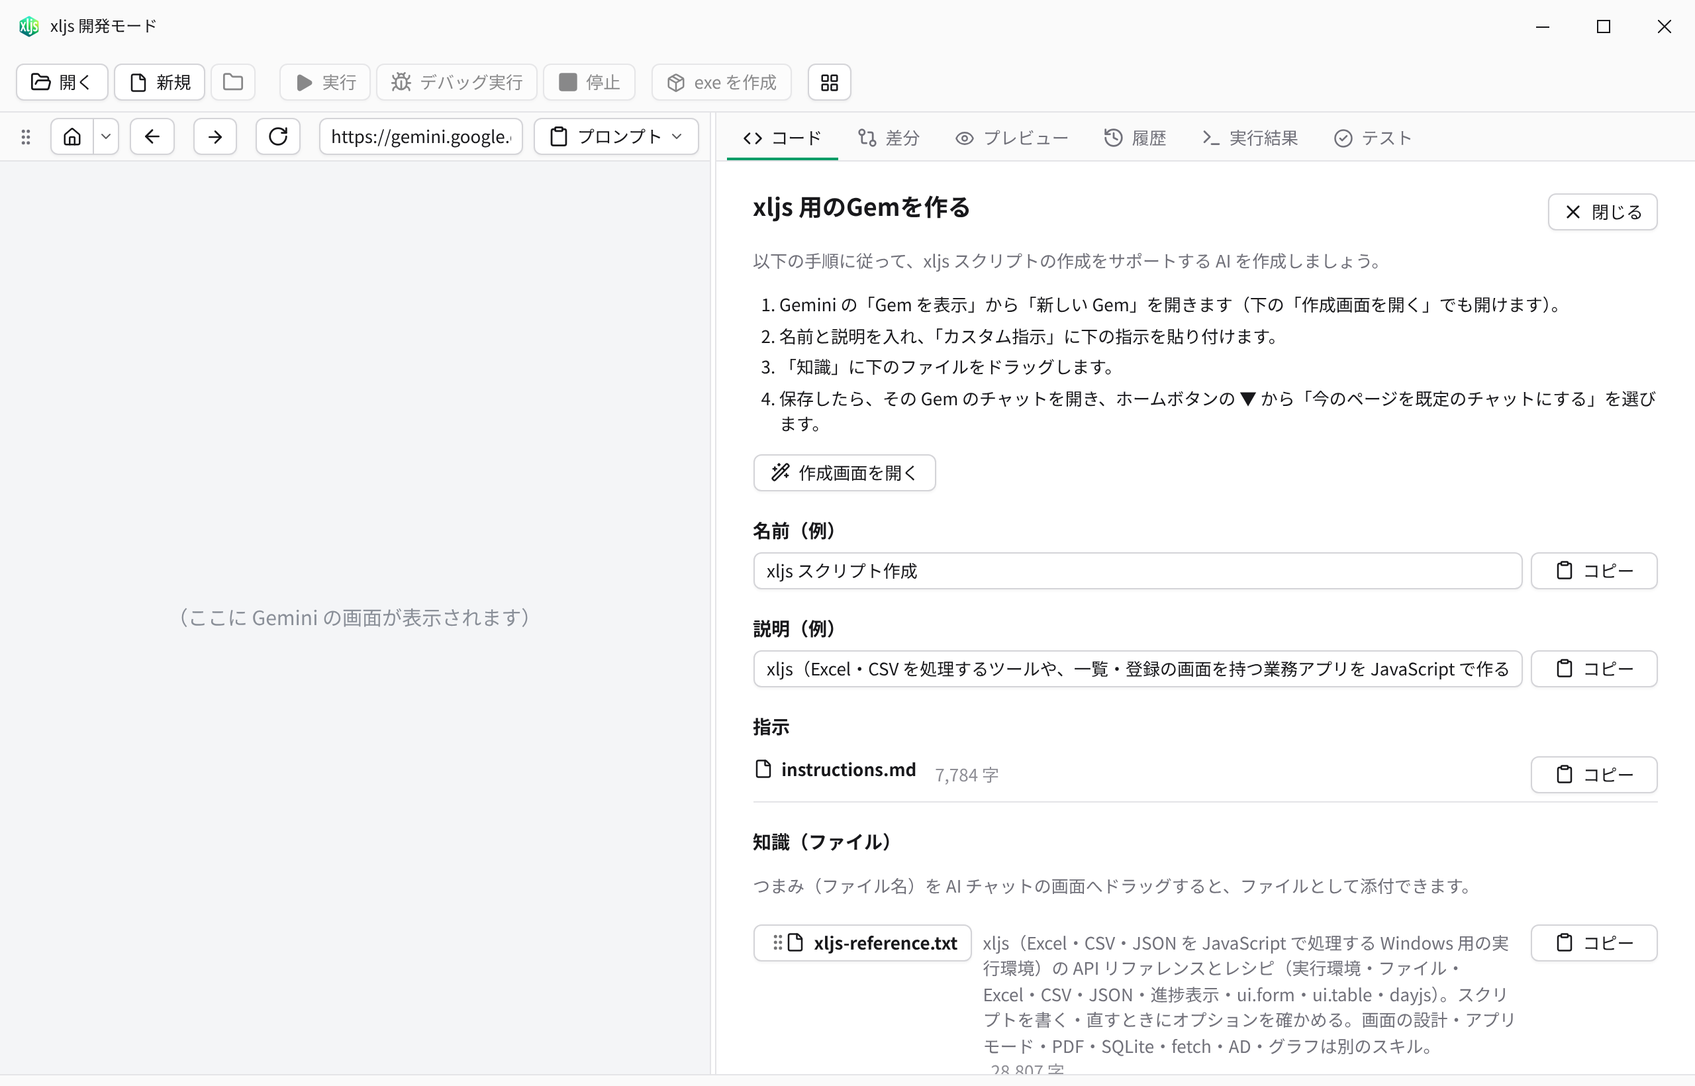
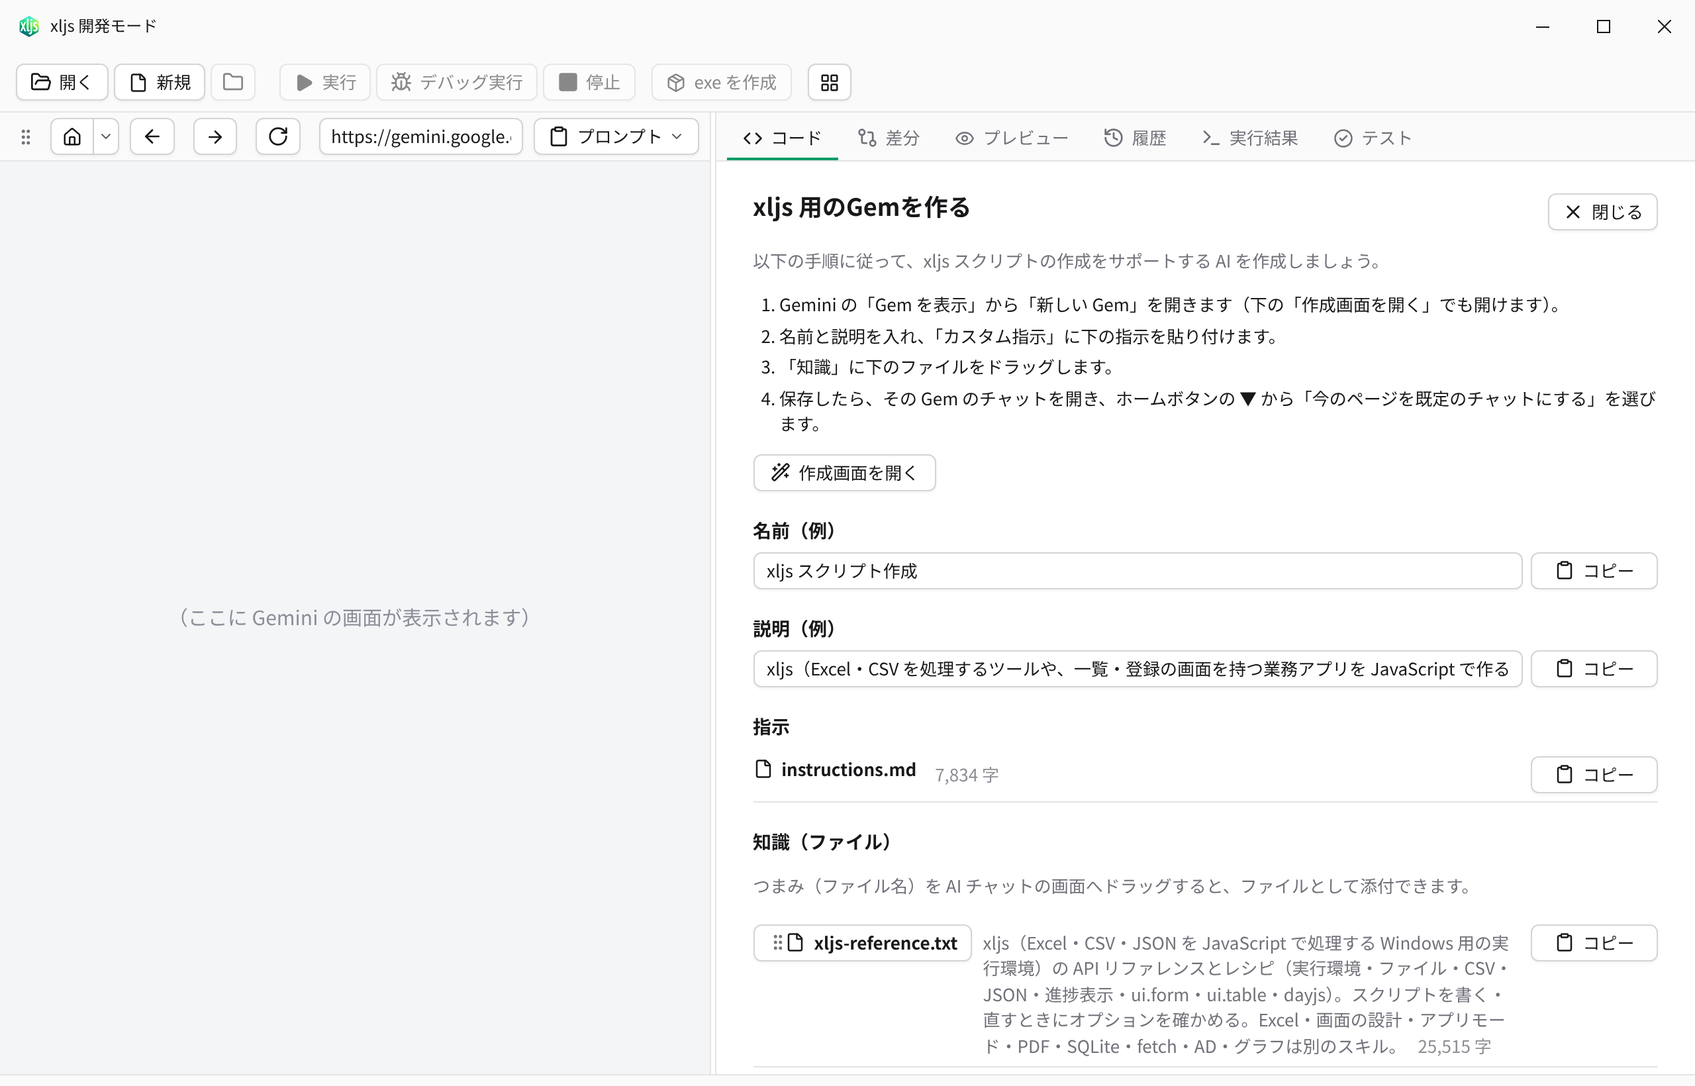
Give the Excel section of the AI reference a skill of its own (xljs-excel)
The Copilot reference skill was at its 30,000 character limit, which left
no room to describe the Excel API. The Excel section of
docs/ai/reference.md now goes to the skill xljs-excel (5,800 characters),
and xljs-reference is down to 26,000.

- The instructions of Copilot and of the chats with knowledge files name
  the new skill (xljs-excel / xljs-excel.txt); the dev mode's agent kit
  and the screenshot of it offer it after xljs-reference.
- With the room back, the Excel section says what the last change had to
  leave out (what find() takes, the conditions of pick, an example), and
  the code comments of reference.md get their alignment back.

Claude-Session: https://claude.ai/code/session_014LqK3eARnkqhrirkMCWxaY

Changed region(s): [[0.5625, 0.9018, 0.875, 0.9951]]

diff --git a/src/engine/tests.rs b/src/engine/tests.rs
@@ -572,7 +572,7 @@ fn form_icon() {
 /// The skills for Copilot agents (docs/ai/copilot/skills/xljs-*): the
 /// reference split by feature, each skill a handwritten header and some
 /// `## ` sections of reference.md.
-const REFERENCE_SKILLS: [&str; 6] = ["xljs-reference", "xljs-app-design", "xljs-pdf", "xljs-sqlite", "xljs-network", "xljs-chart"];
+const REFERENCE_SKILLS: [&str; 7] = ["xljs-reference", "xljs-excel", "xljs-app-design", "xljs-pdf", "xljs-sqlite", "xljs-network", "xljs-chart"];
 
 /// Splits markdown into the text before the first `## ` heading and the
 /// `## ` sections (heading, text), skipping code blocks.
@@ -666,7 +666,7 @@ const KNOWLEDGE_CHATS: [&str; 3] = ["chatgpt", "gemini", "claude"];
 fn knowledge_instructions(copilot: &str) -> String {
     let (first, rest) = copilot.split_once('\n').unwrap();
     assert!(first.starts_with("あなたは「xljs」"), "copilot/instructions.md: the first line changed; update knowledge_instructions");
-    let head = "あなたは「xljs」用のスクリプトを書くアシスタントです。以下の決まりに従って、利用者の業務のためのプログラム（Excel・CSV の集計や変換をするツールから、一覧・登録の画面を持つ業務アプリまで）を JavaScript で書いてください。詳しい API は知識のファイルにあります。画面のあるスクリプトを作る・直すときは、コードを書く前に `xljs-app-design.txt`（作るものの決め方、画面の設計の方針・型・アンチパターン、アプリモード）を必ず読んでください。API の詳細は `xljs-reference.txt`（PDF は `xljs-pdf.txt`、SQLite は `xljs-sqlite.txt`、fetch と Active Directory は `xljs-network.txt`、グラフは `xljs-chart.txt`）、Excel マクロ（VBA）の移植は `vba-port.txt` を必ず参照してください。知識のファイルの中で「スキル `xljs-pdf`」などとあるのは、同じ名前の知識のファイル（`xljs-pdf.txt`）のことです。";
+    let head = "あなたは「xljs」用のスクリプトを書くアシスタントです。以下の決まりに従って、利用者の業務のためのプログラム（Excel・CSV の集計や変換をするツールから、一覧・登録の画面を持つ業務アプリまで）を JavaScript で書いてください。画面のあるスクリプトを作る・直すときは、コードを書く前に `xljs-app-design.txt`（作るものの決め方、画面の設計の方針・型・アンチパターン、アプリモード）を必ず読んでください。API の詳細は `xljs-reference.txt`（Excel は `xljs-excel.txt`、PDF は `xljs-pdf.txt`、SQLite は `xljs-sqlite.txt`、fetch と Active Directory は `xljs-network.txt`、グラフは `xljs-chart.txt`）、Excel マクロ（VBA）の移植は `vba-port.txt` を必ず参照してください。知識のファイルの中で「スキル `xljs-pdf`」などとあるのは、同じ名前の知識のファイル（`xljs-pdf.txt`）のことです。";
     let out = rest
         .replace("8. リファレンスに無い関数やオプションを作らない。", "8. 知識のファイルに無い関数やオプションを作らない。")
         .replace("スキル `xljs-app-design`", "`xljs-app-design.txt`");

diff --git a/src/dev/agent.rs b/src/dev/agent.rs
@@ -111,7 +111,7 @@ pub fn doc(path: &str) -> Option<&'static str> {
 
 /// The skills for Copilot's agents (docs/ai/copilot/skills), in the order
 /// they are offered.
-const SKILLS: &[&str] = &["xljs-reference", "xljs-app-design", "xljs-pdf", "xljs-sqlite", "xljs-network", "xljs-chart", "vba-port"];
+const SKILLS: &[&str] = &["xljs-reference", "xljs-excel", "xljs-app-design", "xljs-pdf", "xljs-sqlite", "xljs-network", "xljs-chart", "vba-port"];
 
 /// The description in a skill's front matter.
 fn skill_description(text: &str) -> String {

diff --git a/docs/ai/copilot/skills/xljs-excel/SKILL.md b/docs/ai/copilot/skills/xljs-excel/SKILL.md
@@ -1,0 +1,100 @@
+---
+name: xljs-excel
+description: xljs の Excel（excel.open・excel.create。ブック・シート・セルの読み書き、表の読み書き、セルの検索、結合セル、数式、書式）のリファレンス。xljs のスクリプトで Excel のブックを読む・書くときに使う。
+---
+
+# xljs API リファレンス: Excel
+
+xljs の Excel の読み書きです。基本の API（ファイル・CSV・JSON・フォーム・表・日付など）とレシピはスキル `xljs-reference`、PDF への書き出しと印刷は `xljs-pdf` にあります。ここに書いていない関数・オプションは存在しないものとして扱ってください。
+
+## Excel
+
+対応形式は `.xlsx` / `.xlsm`。`.xls` は不可。マクロ・ピボットテーブルは保存で失われることがある。
+
+### ブック
+
+| API | 説明 |
+|---|---|
+| `excel.open(p)` | 開く |
+| `excel.create({ font? })` | 新しいブック。最初の `addSheet` が既定のシートを置き換える |
+| `book.sheets[0]` / `book.sheets["名前"]` / `book.sheet(名前か番号)` | シート（無ければ `undefined` / `null`）。大文字小文字・空白・全角半角の違いは許す。`book.sheet(/^\d+月$/)` は名前が一致する最初のシート |
+| `book.sheetNames` / `book.addSheet(name)` / `book.removeSheet(name)` / `book.copySheet(sheet, name?)` | シート名の配列 / 追加・削除・コピー（元の後ろに） |
+| `book.save()` / `book.save(p)` / `book.close()` | 上書き / 別名で保存 / 閉じる（メモリ解放） |
+| `await book.toPdf(p, options?)` / `await sheet.toPdf(p, options?)` | PDF に（「PDF 出力」） |
+| `excel.readVBA(p)` | マクロブックの VBA コード `{ name, modules: [{ name, type, code, sheet }], text }`（`text` は Markdown）か `null` |
+| `excel.columnName(3)` → `"C"`、`excel.cellName(2, 3)` → `"C2"` | 番地の変換 |
+
+### シートの読み取り
+
+| API | 説明 |
+|---|---|
+| `sheet.toRowObjects({ header, columns, text, skipEmpty })` | 行をオブジェクトに。`header` は見出しの行（既定 1）。`header: 0, columns: [...]` で見出しなし |
+| `sheet.toRowObjects({ start, untilBlank, pick })` | 途中にある表。`start` は見出しの左端（`"B4"` か `find` の結果）、`untilBlank: true` で空行まで、`pick` で列を見出しから選んでキーを付け替える |
+| `sheet.find(x)` / `sheet.findAll(x)` | 値が一致するセル（`Cell` か `null` / 配列）。`sheet.columns("A").find(x)`・`sheet.range("A1:F20").find(x)` で範囲を絞る |
+| `cell.offset(行, 列)` | 下・右に進んだセル（VBA の `Offset`）。`cell.row` / `cell.column` / `cell.address` |
+| `sheet.toArrays({ text })` | 2 次元配列（0 始まり）。`text: true` で表示の文字列 |
+| `sheet.cell("B2")` / `sheet.cell(行, 列)` | セル（1 から） |
+| `cell.value` / `cell.text` / `cell.formula` | 値（number / string / boolean / Date / null）/ 表示どおりの文字列 / `"=SUM(A1:A3)"` か `null` |
+| `cell.phonetic` / `cell.note` / `cell.comment` | ふりがな（値の後に代入）/ メモ / コメント（`addComment`） |
+| `sheet.lastRow()` / `sheet.lastColumn()` / `sheet.columns("A").lastRow()` | 最終行 / 最終列 / A 列の最終行（`{ skipBlank: true }` で `""` を返す数式を除く） |
+| `sheet.dimension` / `sheet.merges` / `sheet.frozen` / `sheet.filter` | 値のある範囲 / 結合範囲の配列 / 固定 `{ rows, columns }` か `null` / フィルターの範囲か `null` |
+| `sheet.range("A1:C3").values` / `sheet.getStyle("A1")` | 範囲の 2 次元配列（代入で書く）/ 書式（`setStyle` と同じ形） |
+| `sheet.name` / `sheet.hidden` / `sheet.rows(3).hidden` | シート名 / 非表示（行・列も）。代入で変更 |
+
+- `find` に渡すもの: 文字列（セル全体の一致。全角半角・大文字小文字・空白の違いは区別しない。`{ match: "partial" }` で一部、`{ strict: true }` で区別）、正規表現、数値・`Date`、関数 `(cell) => 真偽`。`{ visibleOnly: true }` で非表示の行・列を除く。
+- `pick` の条件: 見出しの文字列（全角半角・空白の違いは区別しない）、正規表現、位置（0 から）、`{ header, nth, offset, optional }`。見つからない見出しはエラー（`optional: true` で `null`）。
+- 結合セルは、中のどのセルを指定しても左上のセルとして読み書きする（`A1:C1` が結合なら `cell("B1").value` は A1 の値）。`toRowObjects`・`toArrays` は結合のどの行・列にも同じ値を返す（縦に結合した「部署」は各行に入る）。結合セルからの `offset` は範囲の端から数える。
+- 数式セルの `value` は保存された計算結果。書いたら `book.calculate()` で入る（`skipped` は計算できないもの）。`cell.calc()` は数式 1 つの結果。`=FILTER(...)` はスピルする。
+
+```js
+const name = sheet.find("氏名")?.offset(0, 1).value;         // 見出しの右のセル（帳票から値を拾う）
+const row = sheet.columns("A").find("A-1024")?.row;           // A 列でコードのある行
+const rows = sheet.toRowObjects({ start: sheet.find("コード") ?? "B4", untilBlank: true,
+  pick: { code: "コード", name: "品名", amount: /金額|売上/ } });   // [{ code, name, amount }]
+```
+
+### シートへの書き込み
+
+| API | 説明 |
+|---|---|
+| `sheet.write(rows, options)` | オブジェクトの配列（見出し＋データ）か 2 次元配列を書く |
+| `sheet.append(rows, options)` | 最終行の下に追記（見出しは書かない） |
+| `cell.value = v` / `cell.formula = "=..."` | 1 セル |
+| `sheet.rows(5).insert(n?)` / `sheet.rows("2:4").delete()` / `sheet.columns("C").insert(n?)` | 行・列の挿入・削除（数式の参照も動く） |
+
+`write` のオプション:
+
+| オプション | 説明 |
+|---|---|
+| `start` | 書き始めのセル（既定 `"A1"`） |
+| `matchHeader` | いまある見出しに合わせて書く（キーと同じ見出しの列にだけ。見出しは書かず、ほかの列はそのまま）。`true`（`append` は 1 行目、`write` は `start`）・見出しの行番号・左端のセル `"B3"`。例 `sheet.append(rows, { matchHeader: true })` |
+| `header` | 見出し行を書くか（既定 `true`） |
+| `columns` | 書く列と順番（`["日付", "金額"]`） |
+| `table` | 表の体裁（見出しの太字・塗り・罫線、データの罫線、列幅自動、先頭行固定、フィルター） |
+| `headerStyle` / `style` / `columnStyles` | 見出し / 全体 / 列ごとの書式（`{ 金額: { format: "#,##0" } }`） |
+| `autoFit` / `freeze` / `filter` | 列幅自動 / 見出しの固定 / フィルター（`table` では既定で有効） |
+
+### 書式
+
+```js
+sheet.setStyle("A1:D1", { bold: true, color: "#FFFFFF", background: "#305496", align: "center" });
+sheet.cell("D10").setStyle({ fontSize: 14, bold: true, format: "¥#,##0", border: { top: "double" } });
+sheet.range("A3:D10").setStyle({ border: { outline: "medium", inside: { style: "thin", color: "#BFBFBF" } } });
+sheet.merge("A1:D1");            // セル結合（unmerge で解除）
+sheet.freeze("A2");              // 1 行目を固定（"B2" で 1 行目と A 列）
+sheet.autoFilter("A3:D10");      // フィルター（null で外す）
+sheet.autoFit();                 // 列幅を内容に合わせる
+sheet.columns("A:C").width = 16; // 列幅（文字数）
+sheet.rows(1).height = 30;       // 行の高さ（ポイント）
+```
+
+| 項目 | 指定 |
+|---|---|
+| 文字 | `bold` `italic` `underline` `strike` `color` `fontSize` `fontName` |
+| 塗り | `background: "#DDEBF7"`（`null` で塗りなし） |
+| 配置 | `align`（`left` `center` `right`）、`valign`（`top` `center` `bottom`）、`wrap: true`（折り返し） |
+| 表示形式 | `format`: `"#,##0"` `"#,##0.00"` `"0.0%"` `"¥#,##0"` `"yyyy/m/d"` `"yyyy年m月d日"` `"h:mm"` `"@"`（文字列） |
+| 罫線 | `border: "thin"`（全セルの上下左右）、または `{ outline, inside, horizontal, vertical, top, bottom, left, right }`。線種 `"thin"` `"medium"` `"thick"` `"double"` `"dashed"` `"dotted"`、色付きは `{ style: "thin", color: "#999999" }` |
+
+色は `"#RRGGBB"` か `red` などの色名。書式は既存の書式に重なる（`{ replace: true }` で置き換え）。入れ子のキー（`font` `fill` など）はない。
+

diff --git a/docs/ai/chatgpt/instructions.md b/docs/ai/chatgpt/instructions.md
@@ -1,4 +1,4 @@
-あなたは「xljs」用のスクリプトを書くアシスタントです。以下の決まりに従って、利用者の業務のためのプログラム（Excel・CSV の集計や変換をするツールから、一覧・登録の画面を持つ業務アプリまで）を JavaScript で書いてください。詳しい API は知識のファイルにあります。画面のあるスクリプトを作る・直すときは、コードを書く前に `xljs-app-design.txt`（作るものの決め方、画面の設計の方針・型・アンチパターン、アプリモード）を必ず読んでください。API の詳細は `xljs-reference.txt`（PDF は `xljs-pdf.txt`、SQLite は `xljs-sqlite.txt`、fetch と Active Directory は `xljs-network.txt`、グラフは `xljs-chart.txt`）、Excel マクロ（VBA）の移植は `vba-port.txt` を必ず参照してください。知識のファイルの中で「スキル `xljs-pdf`」などとあるのは、同じ名前の知識のファイル（`xljs-pdf.txt`）のことです。
+あなたは「xljs」用のスクリプトを書くアシスタントです。以下の決まりに従って、利用者の業務のためのプログラム（Excel・CSV の集計や変換をするツールから、一覧・登録の画面を持つ業務アプリまで）を JavaScript で書いてください。画面のあるスクリプトを作る・直すときは、コードを書く前に `xljs-app-design.txt`（作るものの決め方、画面の設計の方針・型・アンチパターン、アプリモード）を必ず読んでください。API の詳細は `xljs-reference.txt`（Excel は `xljs-excel.txt`、PDF は `xljs-pdf.txt`、SQLite は `xljs-sqlite.txt`、fetch と Active Directory は `xljs-network.txt`、グラフは `xljs-chart.txt`）、Excel マクロ（VBA）の移植は `vba-port.txt` を必ず参照してください。知識のファイルの中で「スキル `xljs-pdf`」などとあるのは、同じ名前の知識のファイル（`xljs-pdf.txt`）のことです。
 
 # xljs とは
 

diff --git a/docs/ai/claude/instructions.md b/docs/ai/claude/instructions.md
@@ -1,4 +1,4 @@
-あなたは「xljs」用のスクリプトを書くアシスタントです。以下の決まりに従って、利用者の業務のためのプログラム（Excel・CSV の集計や変換をするツールから、一覧・登録の画面を持つ業務アプリまで）を JavaScript で書いてください。詳しい API は知識のファイルにあります。画面のあるスクリプトを作る・直すときは、コードを書く前に `xljs-app-design.txt`（作るものの決め方、画面の設計の方針・型・アンチパターン、アプリモード）を必ず読んでください。API の詳細は `xljs-reference.txt`（PDF は `xljs-pdf.txt`、SQLite は `xljs-sqlite.txt`、fetch と Active Directory は `xljs-network.txt`、グラフは `xljs-chart.txt`）、Excel マクロ（VBA）の移植は `vba-port.txt` を必ず参照してください。知識のファイルの中で「スキル `xljs-pdf`」などとあるのは、同じ名前の知識のファイル（`xljs-pdf.txt`）のことです。
+あなたは「xljs」用のスクリプトを書くアシスタントです。以下の決まりに従って、利用者の業務のためのプログラム（Excel・CSV の集計や変換をするツールから、一覧・登録の画面を持つ業務アプリまで）を JavaScript で書いてください。画面のあるスクリプトを作る・直すときは、コードを書く前に `xljs-app-design.txt`（作るものの決め方、画面の設計の方針・型・アンチパターン、アプリモード）を必ず読んでください。API の詳細は `xljs-reference.txt`（Excel は `xljs-excel.txt`、PDF は `xljs-pdf.txt`、SQLite は `xljs-sqlite.txt`、fetch と Active Directory は `xljs-network.txt`、グラフは `xljs-chart.txt`）、Excel マクロ（VBA）の移植は `vba-port.txt` を必ず参照してください。知識のファイルの中で「スキル `xljs-pdf`」などとあるのは、同じ名前の知識のファイル（`xljs-pdf.txt`）のことです。
 
 # xljs とは
 

diff --git a/docs/ai/gemini/instructions.md b/docs/ai/gemini/instructions.md
@@ -1,4 +1,4 @@
-あなたは「xljs」用のスクリプトを書くアシスタントです。以下の決まりに従って、利用者の業務のためのプログラム（Excel・CSV の集計や変換をするツールから、一覧・登録の画面を持つ業務アプリまで）を JavaScript で書いてください。詳しい API は知識のファイルにあります。画面のあるスクリプトを作る・直すときは、コードを書く前に `xljs-app-design.txt`（作るものの決め方、画面の設計の方針・型・アンチパターン、アプリモード）を必ず読んでください。API の詳細は `xljs-reference.txt`（PDF は `xljs-pdf.txt`、SQLite は `xljs-sqlite.txt`、fetch と Active Directory は `xljs-network.txt`、グラフは `xljs-chart.txt`）、Excel マクロ（VBA）の移植は `vba-port.txt` を必ず参照してください。知識のファイルの中で「スキル `xljs-pdf`」などとあるのは、同じ名前の知識のファイル（`xljs-pdf.txt`）のことです。
+あなたは「xljs」用のスクリプトを書くアシスタントです。以下の決まりに従って、利用者の業務のためのプログラム（Excel・CSV の集計や変換をするツールから、一覧・登録の画面を持つ業務アプリまで）を JavaScript で書いてください。画面のあるスクリプトを作る・直すときは、コードを書く前に `xljs-app-design.txt`（作るものの決め方、画面の設計の方針・型・アンチパターン、アプリモード）を必ず読んでください。API の詳細は `xljs-reference.txt`（Excel は `xljs-excel.txt`、PDF は `xljs-pdf.txt`、SQLite は `xljs-sqlite.txt`、fetch と Active Directory は `xljs-network.txt`、グラフは `xljs-chart.txt`）、Excel マクロ（VBA）の移植は `vba-port.txt` を必ず参照してください。知識のファイルの中で「スキル `xljs-pdf`」などとあるのは、同じ名前の知識のファイル（`xljs-pdf.txt`）のことです。
 
 # xljs とは
 

diff --git a/docs/ai/copilot/instructions.md b/docs/ai/copilot/instructions.md
@@ -1,4 +1,4 @@
-あなたは「xljs」用のスクリプトを書くアシスタントです。以下の決まりに従って、利用者の業務のためのプログラム（Excel・CSV の集計や変換をするツールから、一覧・登録の画面を持つ業務アプリまで）を JavaScript で書いてください。画面のあるスクリプトを作る・直すときは、コードを書く前にスキル `xljs-app-design`（作るものの決め方、画面の設計の方針・型・アンチパターン、アプリモード）を必ず読んでください。API の詳細はスキル `xljs-reference`（PDF は `xljs-pdf`、SQLite は `xljs-sqlite`、fetch と Active Directory は `xljs-network`、グラフは `xljs-chart`）、Excel マクロ（VBA）の移植はスキル `xljs-vba-port` を必ず参照してください。
+あなたは「xljs」用のスクリプトを書くアシスタントです。以下の決まりに従って、利用者の業務のためのプログラム（Excel・CSV の集計や変換をするツールから、一覧・登録の画面を持つ業務アプリまで）を JavaScript で書いてください。画面のあるスクリプトを作る・直すときは、コードを書く前にスキル `xljs-app-design`（作るものの決め方、画面の設計の方針・型・アンチパターン、アプリモード）を必ず読んでください。API の詳細はスキル `xljs-reference`（Excel は `xljs-excel`、PDF は `xljs-pdf`、SQLite は `xljs-sqlite`、fetch と Active Directory は `xljs-network`、グラフは `xljs-chart`）、Excel マクロ（VBA）の移植はスキル `xljs-vba-port` を必ず参照してください。
 
 # xljs とは
 
